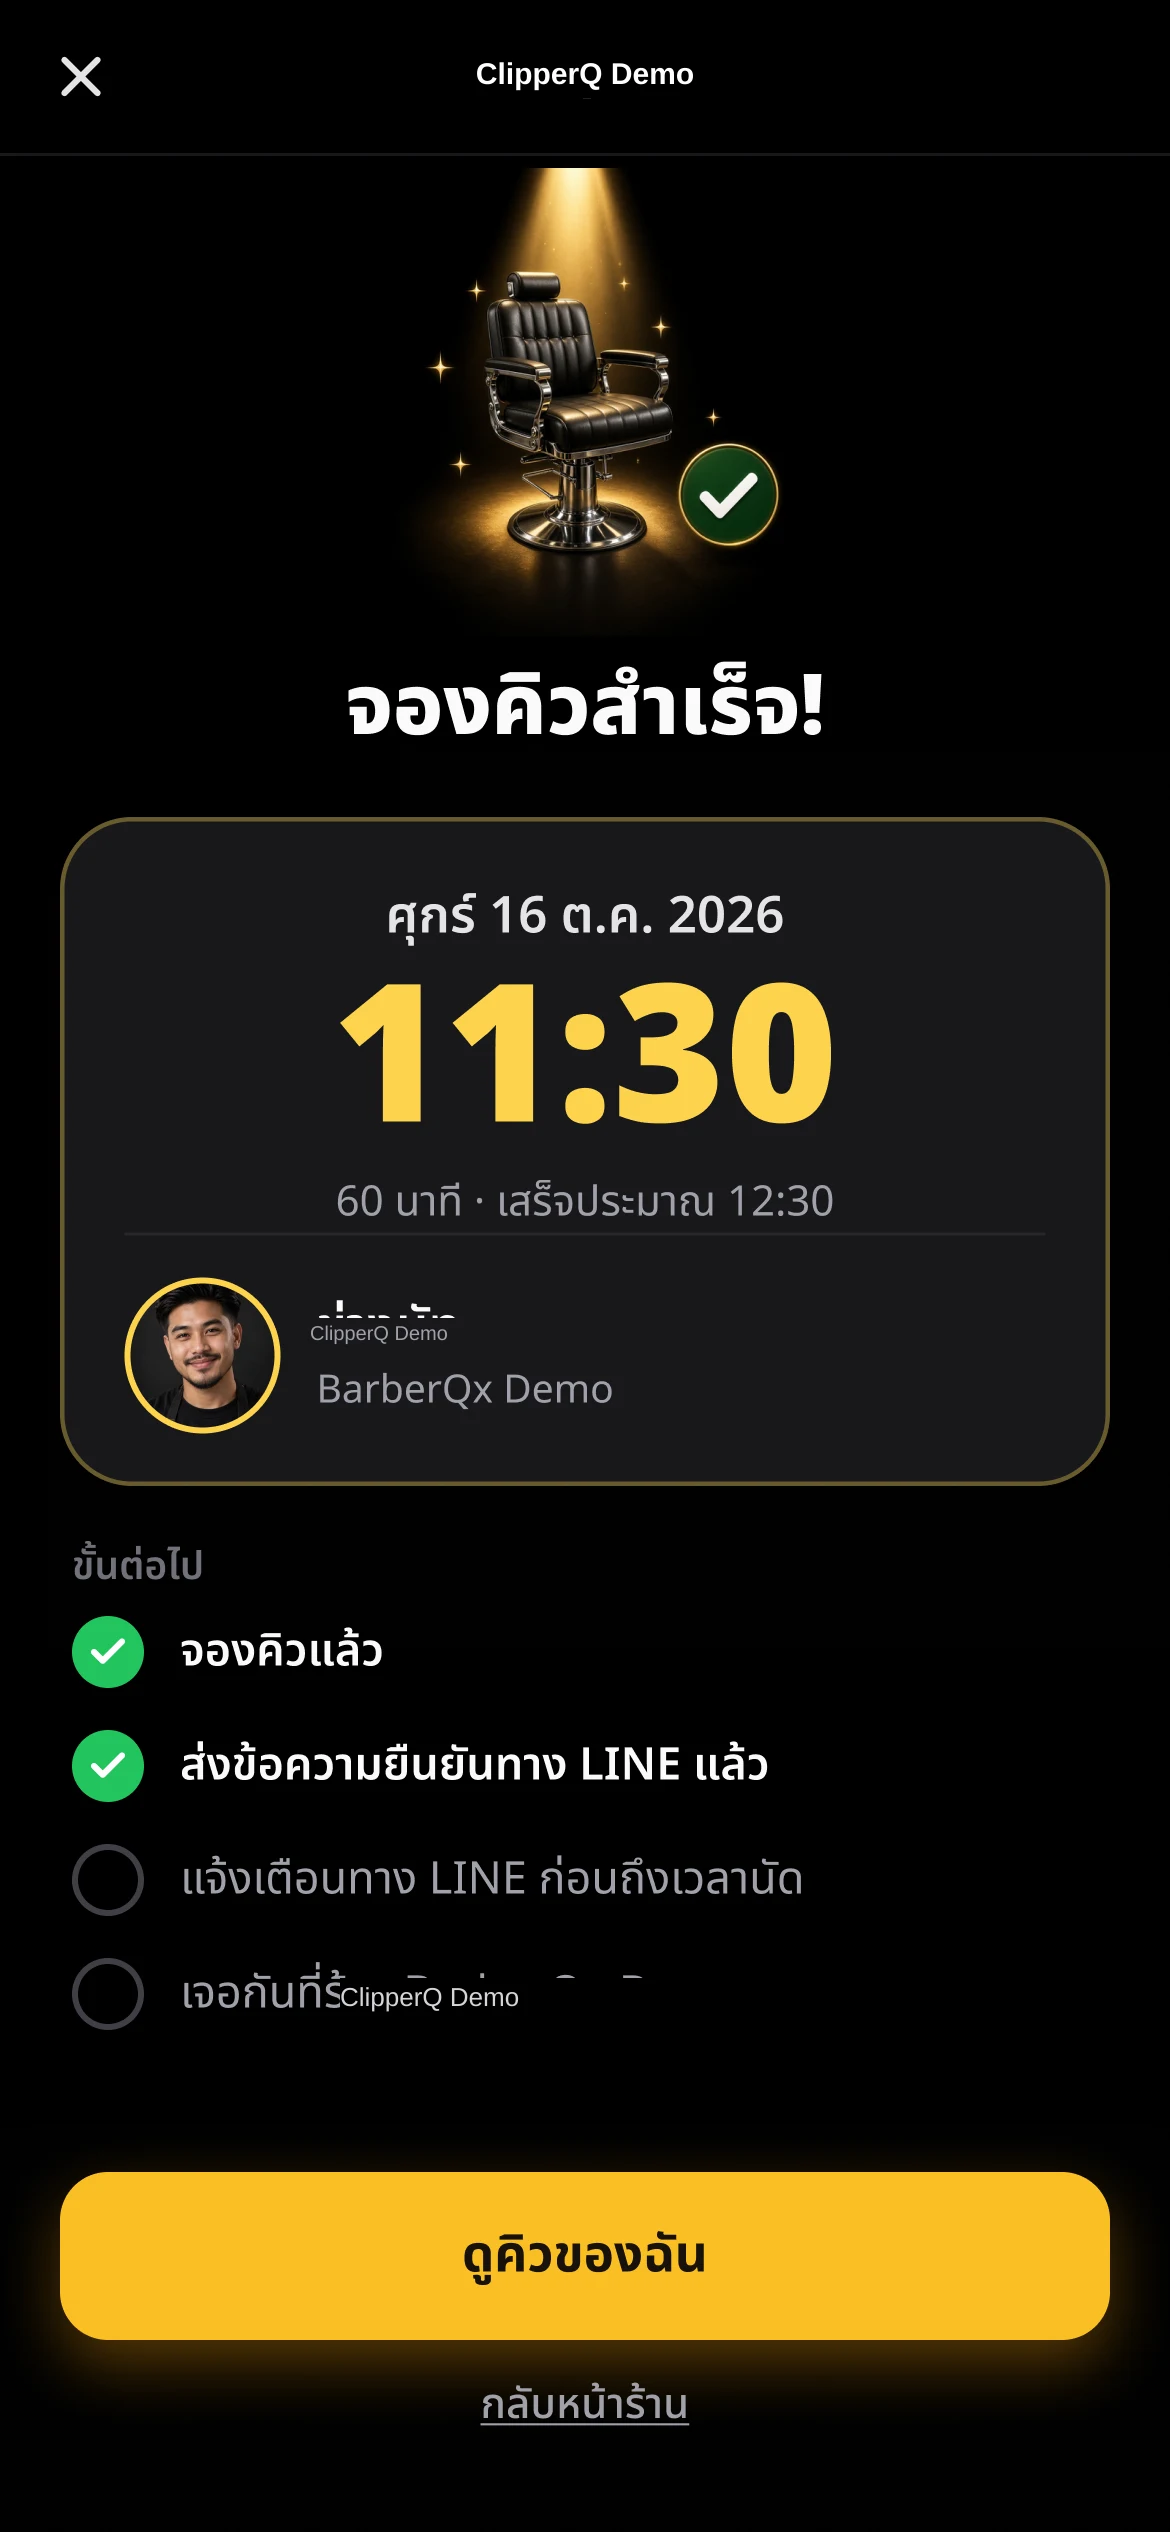
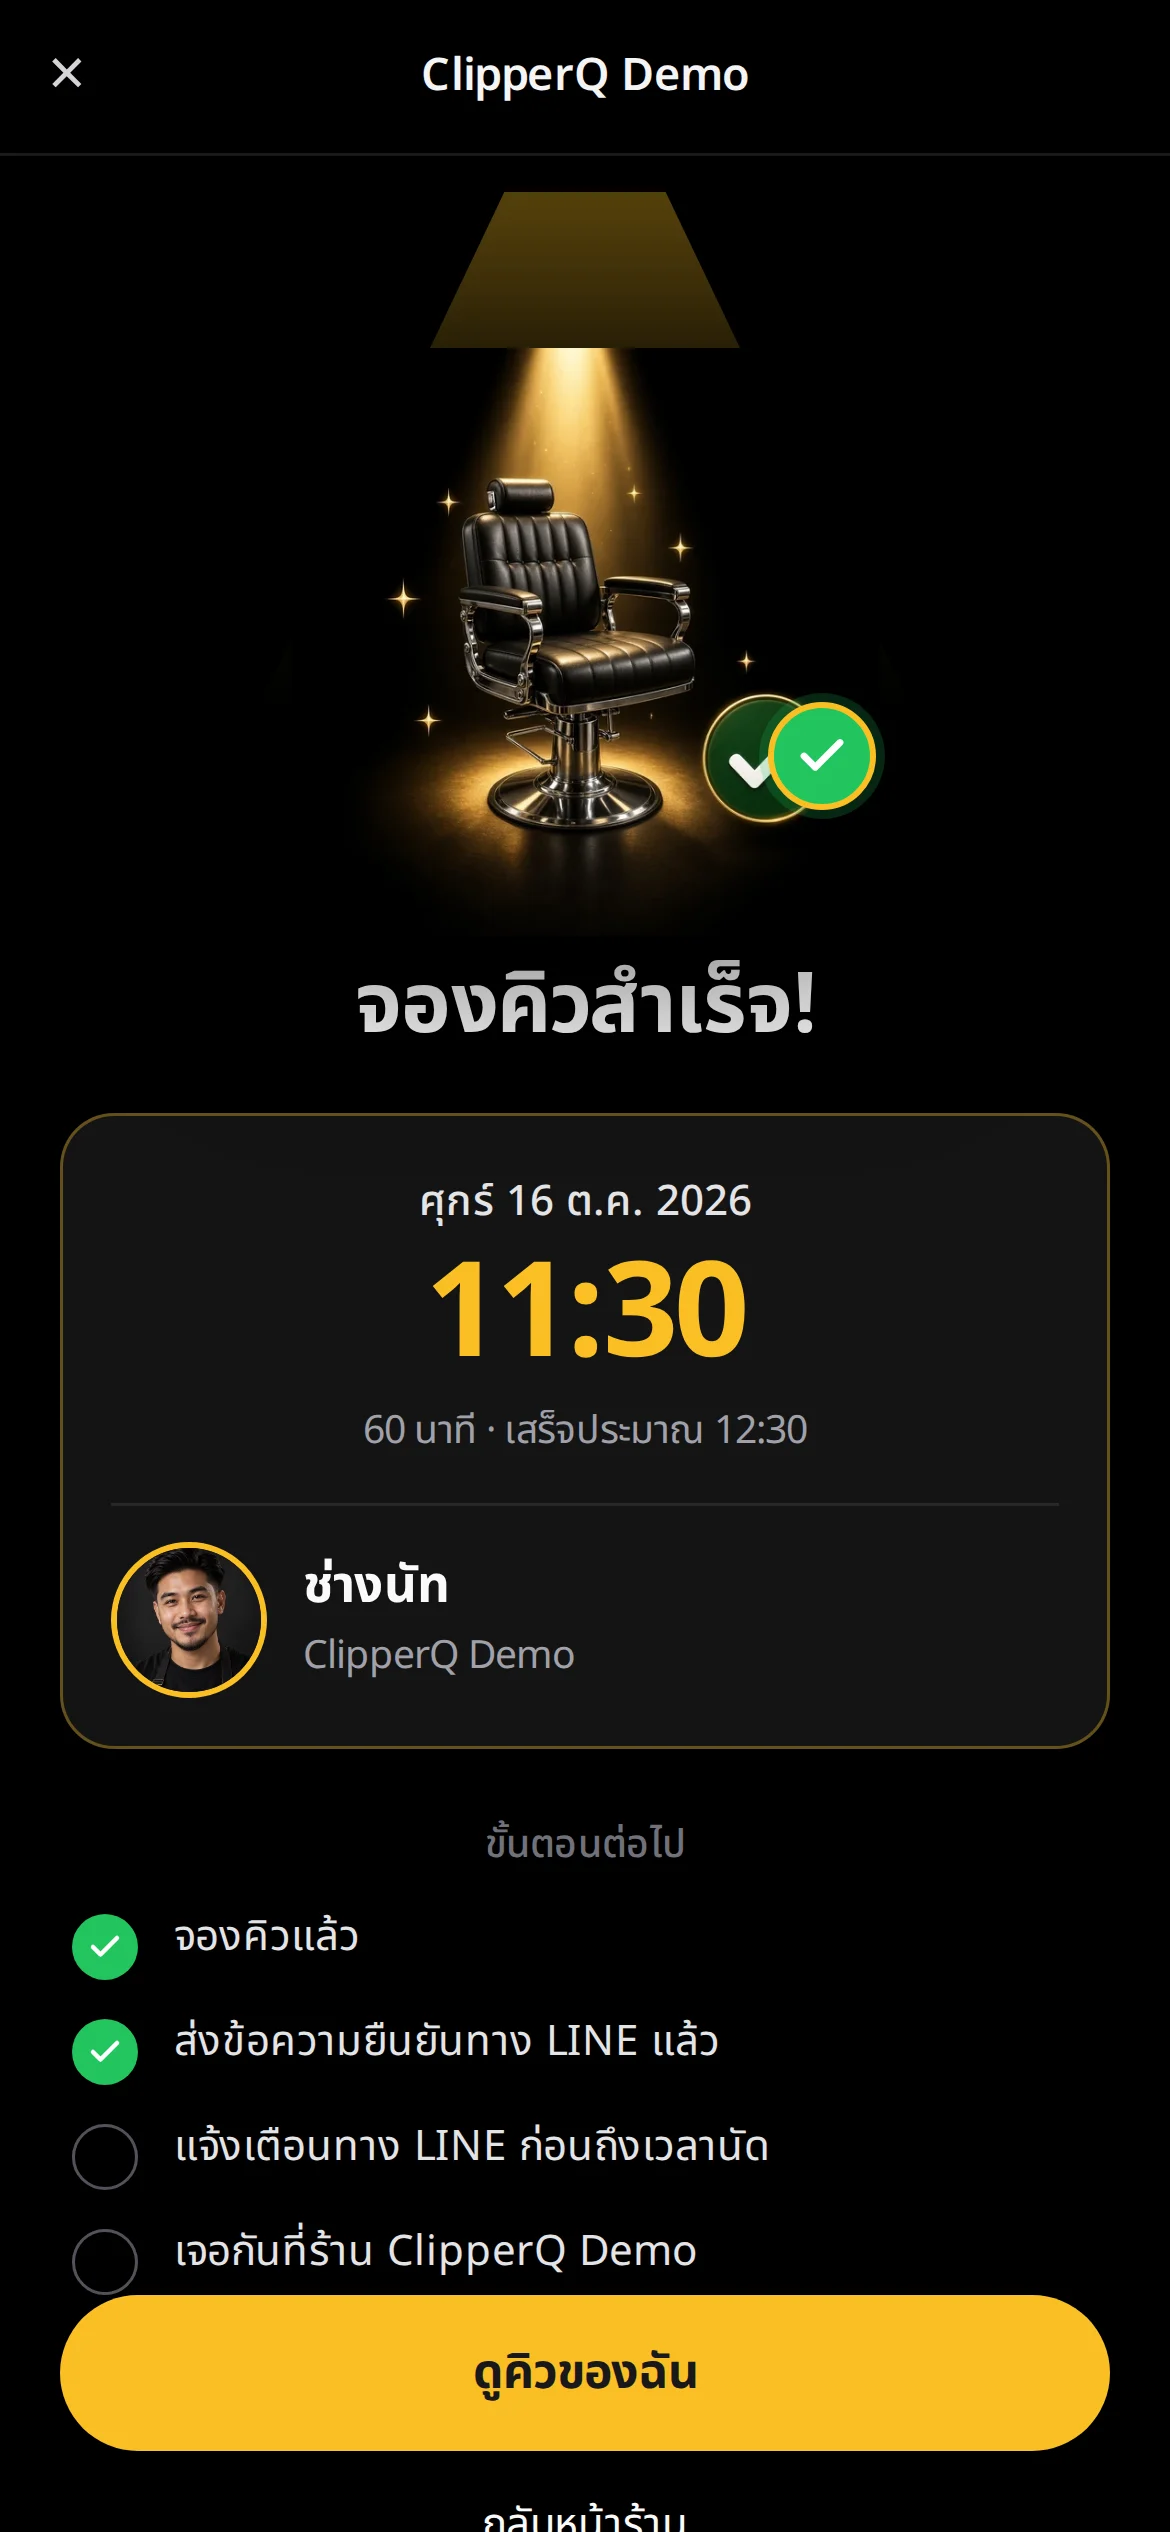
Recapture booking-success screen; restore original hero photos
Re-render sale booking-success flat screen (1170×2532) from a live
ClipperQ Demo capture page — title, ช่างนัท + ClipperQ Demo, and
ขั้นตอนต่อไป checklist — instead of pixel-patching. Revert
hero-desktop/mobile photos to pre-50a3cbd originals for Tommy to
regenerate later. Preview shopName → ClipperQ Demo.

diff --git a/public/sale/booking-success-capture.html b/public/sale/booking-success-capture.html
@@ -1,0 +1,302 @@
+<!DOCTYPE html>
+<html lang="th">
+<head>
+  <meta charset="utf-8" />
+  <meta name="viewport" content="width=390, initial-scale=1" />
+  <title>ClipperQ Demo — Booking success</title>
+  <link rel="preconnect" href="https://fonts.googleapis.com" />
+  <link rel="preconnect" href="https://fonts.gstatic.com" crossorigin />
+  <link href="https://fonts.googleapis.com/css2?family=Noto+Sans+Thai:wght@400;500;600;700&display=swap" rel="stylesheet" />
+  <style>
+    * { box-sizing: border-box; margin: 0; padding: 0; }
+    html, body {
+      width: 390px;
+      height: 844px;
+      overflow: hidden;
+      font-family: "Noto Sans Thai", system-ui, sans-serif;
+      background: #000;
+      color: #fafafa;
+      -webkit-font-smoothing: antialiased;
+    }
+    .phone {
+      width: 390px;
+      height: 844px;
+      background: #000;
+      display: flex;
+      flex-direction: column;
+    }
+    .topbar {
+      height: 52px;
+      display: flex;
+      align-items: center;
+      justify-content: center;
+      position: relative;
+      border-bottom: 1px solid #1a1a1a;
+      flex-shrink: 0;
+    }
+    .topbar .close {
+      position: absolute;
+      left: 16px;
+      top: 50%;
+      transform: translateY(-50%);
+      width: 22px;
+      height: 22px;
+      color: #d4d4d8;
+      font-size: 22px;
+      line-height: 1;
+      font-weight: 300;
+    }
+    .topbar .title {
+      font-size: 15px;
+      font-weight: 600;
+      color: #f4f4f5;
+      letter-spacing: -0.01em;
+    }
+    .body {
+      flex: 1;
+      padding: 8px 20px 20px;
+      display: flex;
+      flex-direction: column;
+      align-items: stretch;
+    }
+    .hero {
+      position: relative;
+      height: 248px;
+      display: flex;
+      align-items: flex-end;
+      justify-content: center;
+      margin-top: 4px;
+    }
+    .beam {
+      position: absolute;
+      top: 0;
+      left: 18%;
+      right: 18%;
+      height: 72%;
+      background: linear-gradient(
+        to bottom,
+        rgba(251, 191, 36, 0.34),
+        rgba(251, 191, 36, 0.1) 48%,
+        transparent
+      );
+      clip-path: polygon(38% 0, 62% 0, 100% 100%, 0 100%);
+      pointer-events: none;
+    }
+    .hero img.chair {
+      position: relative;
+      z-index: 1;
+      width: 196px;
+      height: auto;
+      filter: drop-shadow(0 14px 28px rgba(0, 0, 0, 0.55));
+    }
+    .check-badge {
+      position: absolute;
+      z-index: 2;
+      right: 78px;
+      bottom: 42px;
+      width: 36px;
+      height: 36px;
+      border-radius: 999px;
+      background: #22c55e;
+      border: 2px solid #fbbf24;
+      display: flex;
+      align-items: center;
+      justify-content: center;
+      box-shadow: 0 0 0 3px rgba(34, 197, 94, 0.2);
+    }
+    .check-badge svg { width: 18px; height: 18px; }
+    h1 {
+      text-align: center;
+      font-size: 28px;
+      font-weight: 700;
+      letter-spacing: -0.02em;
+      margin-top: 6px;
+      line-height: 1.25;
+    }
+    .card {
+      margin-top: 18px;
+      border: 1px solid rgba(251, 191, 36, 0.35);
+      border-radius: 18px;
+      background: #141414;
+      padding: 18px 16px 16px;
+    }
+    .date {
+      text-align: center;
+      font-size: 14px;
+      font-weight: 500;
+      color: #e4e4e7;
+    }
+    .time {
+      text-align: center;
+      margin-top: 4px;
+      font-size: 44px;
+      font-weight: 700;
+      color: #fbbf24;
+      letter-spacing: -0.03em;
+      line-height: 1.1;
+    }
+    .duration {
+      text-align: center;
+      margin-top: 4px;
+      font-size: 13px;
+      color: #a1a1aa;
+    }
+    .divider {
+      margin: 14px 0 12px;
+      border: 0;
+      border-top: 1px solid #27272a;
+    }
+    .who {
+      display: flex;
+      align-items: center;
+      gap: 12px;
+    }
+    .who img {
+      width: 52px;
+      height: 52px;
+      border-radius: 999px;
+      object-fit: cover;
+      border: 2px solid #fbbf24;
+      background: #18181b;
+      flex-shrink: 0;
+    }
+    .who-name {
+      font-size: 17px;
+      font-weight: 700;
+      color: #fafafa;
+      line-height: 1.2;
+    }
+    .who-shop {
+      margin-top: 2px;
+      font-size: 13px;
+      color: #a1a1aa;
+    }
+    .next-label {
+      margin-top: 22px;
+      text-align: center;
+      font-size: 13px;
+      color: #71717a;
+      font-weight: 500;
+    }
+    .steps {
+      margin-top: 12px;
+      display: flex;
+      flex-direction: column;
+      gap: 12px;
+      padding: 0 4px;
+    }
+    .step {
+      display: flex;
+      align-items: flex-start;
+      gap: 12px;
+      font-size: 14px;
+      color: #e4e4e7;
+      line-height: 1.35;
+    }
+    .step .dot {
+      width: 22px;
+      height: 22px;
+      border-radius: 999px;
+      flex-shrink: 0;
+      margin-top: 1px;
+      display: flex;
+      align-items: center;
+      justify-content: center;
+    }
+    .step .dot.done {
+      background: #22c55e;
+    }
+    .step .dot.todo {
+      border: 1.5px solid #52525b;
+      background: transparent;
+    }
+    .step .dot.done svg { width: 12px; height: 12px; }
+    .cta {
+      margin-top: auto;
+      display: flex;
+      align-items: center;
+      justify-content: center;
+      height: 52px;
+      border-radius: 999px;
+      background: #fbbf24;
+      color: #18181b;
+      font-size: 16px;
+      font-weight: 700;
+      text-decoration: none;
+    }
+    .back {
+      margin-top: 14px;
+      text-align: center;
+      font-size: 14px;
+      color: #fafafa;
+      text-decoration: underline;
+      text-underline-offset: 3px;
+    }
+  </style>
+</head>
+<body>
+  <div class="phone">
+    <header class="topbar">
+      <span class="close" aria-hidden="true">×</span>
+      <div class="title">ClipperQ Demo</div>
+    </header>
+    <div class="body">
+      <div class="hero">
+        <div class="beam" aria-hidden="true"></div>
+        <img class="chair" src="/images/booking-success-chair.webp" alt="" width="196" height="196" />
+        <div class="check-badge" aria-hidden="true">
+          <svg viewBox="0 0 24 24" fill="none" stroke="#fff" stroke-width="3" stroke-linecap="round" stroke-linejoin="round">
+            <polyline points="20 6 9 17 4 12" />
+          </svg>
+        </div>
+      </div>
+      <h1>จองคิวสำเร็จ!</h1>
+
+      <section class="card">
+        <div class="date">ศุกร์ 16 ต.ค. 2026</div>
+        <div class="time">11:30</div>
+        <div class="duration">60 นาที · เสร็จประมาณ 12:30</div>
+        <hr class="divider" />
+        <div class="who">
+          <img src="/sale/booking-success-barber.webp" alt="ช่างนัท" width="52" height="52" />
+          <div>
+            <div class="who-name">ช่างนัท</div>
+            <div class="who-shop">ClipperQ Demo</div>
+          </div>
+        </div>
+      </section>
+
+      <div class="next-label">ขั้นตอนต่อไป</div>
+      <div class="steps">
+        <div class="step">
+          <span class="dot done">
+            <svg viewBox="0 0 24 24" fill="none" stroke="#fff" stroke-width="3" stroke-linecap="round" stroke-linejoin="round">
+              <polyline points="20 6 9 17 4 12" />
+            </svg>
+          </span>
+          <span>จองคิวแล้ว</span>
+        </div>
+        <div class="step">
+          <span class="dot done">
+            <svg viewBox="0 0 24 24" fill="none" stroke="#fff" stroke-width="3" stroke-linecap="round" stroke-linejoin="round">
+              <polyline points="20 6 9 17 4 12" />
+            </svg>
+          </span>
+          <span>ส่งข้อความยืนยันทาง LINE แล้ว</span>
+        </div>
+        <div class="step">
+          <span class="dot todo"></span>
+          <span>แจ้งเตือนทาง LINE ก่อนถึงเวลานัด</span>
+        </div>
+        <div class="step">
+          <span class="dot todo"></span>
+          <span>เจอกันที่ร้าน ClipperQ Demo</span>
+        </div>
+      </div>
+
+      <a class="cta" href="#">ดูคิวของฉัน</a>
+      <div class="back">กลับหน้าร้าน</div>
+    </div>
+  </div>
+</body>
+</html>

diff --git a/src/app/preview/booking-success/BookingSuccessPreview.tsx b/src/app/preview/booking-success/BookingSuccessPreview.tsx
@@ -44,7 +44,7 @@ export function BookingSuccessPreview() {
           <BookingSuccess
             appointment={DEMO_APPOINTMENT}
             barberName="นัท"
-            shopName="BarberQx Demo"
+            shopName="ClipperQ Demo"
             barber={DEMO_BARBER}
             friendship="friend"
             useMarketingAvatarSlot
